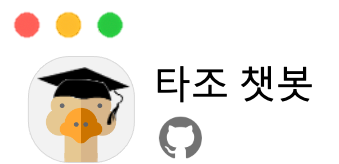
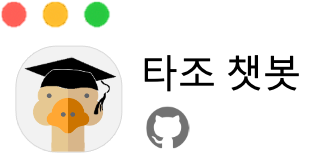
edit layouts and multiline issues

diff --git a/static/css/style.css b/static/css/style.css
@@ -11,8 +11,10 @@ h1 {
     position: absolute;
     top: 0;
     left: 0;
+    padding: 5px 15px 0 5px;
     background-color: #FFFFFFFF;
-    width: 100%;
+    width: calc(100% - 20px);
+    border-bottom: 1px solid #EDEDED;
 }
 
 #head_1 {
@@ -23,7 +25,8 @@ h1 {
 #head_2 {
     width: 100%;
     text-align: right;
-    margin-top: 30%;
+    margin-top: 60px;
+    padding: 0;
 }
 
 a:link {
@@ -60,9 +63,11 @@ h6 {
 
 #chatbox {
     position: absolute;
-    top: 95px;
+    top: 100px;
+    left: 0;
+    padding: 15px;
     bottom: 120px;
-    width: 99.5%;
+    width: calc(100% - 30px);
     overflow: auto;
 }
 
@@ -70,14 +75,15 @@ h6 {
     background-color: #F9F9F9FF;
     position: absolute;
     left: 0;
-    bottom: 75px;
+    bottom: 94px;
     width: 100%;
     text-align: right;
+    border-top: 1px solid #EDEDED;
+    border-bottom: 1px solid #EDEDED;
 }
 
 #resetButton {
-    margin-top: 6px;
-    margin-bottom: 3px;
+    margin: 5px 2px -4px;
 }
 
 #userInput {
@@ -87,46 +93,58 @@ h6 {
     left: 0;
     margin-left: auto;
     margin-right: auto;
-    width: 100%;
+    width: calc(100% - 10px);
+    padding: 5px;
 }
 
 #textInput {
     height: 60px;
-    width: 100%;
+    width: calc(100% - 5px);
     color: #556677FF;
     font-family: Malgun Gothic;
-    font-size: 24px;
+    font-size: 19px;
     vertical-align: top;
     outline: None;
-    margin-top: 5px;
-    margin-bottom: 3px;
-    margin-left: 3px;
-    margin-right: 3px;
+    margin: 0 5px;
+    border: 0;
 }
 
 #buttonInput {
     height: 68px;
     width: 70px;
     vertical-align: text-top;
-    margin-top: 3px;
-    margin-bottom: 3px;
-    margin-left: 3px;
-    margin-right: 3px;
+    margin: 5px;
 }
 
 .userText {
-    color: #556677FF;
     font-family: Malgun Gothic;
-    font-size: 24px;
-    text-align: right;
-    line-height: 150%;
-    margin-right: 1%;
+    font-size: 19px;
+    line-height: 120%;
+    float: right;
+    margin-right: 10px;
+    padding-left: calc(100% - 550px);
+    position: relative;
+    margin-bottom: 10px;
 }
 
 .userText span {
     background-color: #FEF01BFF;
-    padding: 1%;
+    padding: 12px 10px 7px 12px;
     border-radius: 5px;
+    display: block;
+    max-width: 350px;
+    word-wrap:break-word;
+    /* white-space: normal !important; */
+}
+
+.userText span:after {
+    border-top: 12px solid #FEF01BFF;
+    border-right: 12px solid transparent;
+    border-top-right-radius: 5px;
+    content: "";
+    position: absolute;
+    top: 10px;
+    right: -12px;
 }
 
 .botText {
@@ -134,7 +152,7 @@ h6 {
     font-family: Malgun Gothic;
     font-size: 24px;
     text-align: left;
-    line-height: 150%;
+    line-height: 120%;
 }
 
 .botText span {

diff --git a/templates/index.html b/templates/index.html
@@ -2,13 +2,13 @@
 <html lang="ko">
   <head>
     <title>타조 챗봇</title>
-    <link rel="stylesheet" type="text/css" href="/static/css/style.css">
+    <link rel="stylesheet" type="text/css" href="/Users/by/boost_camp/stage3/ODQA-Demo-Site/static/css/style.css">
     <script src="https://ajax.googleapis.com/ajax/libs/jquery/3.2.1/jquery.min.js"></script>
     <style>
       body {
         background-color: #9BBBD4FF;
       }
-  </style> 
+  </style>
   </head>
   <body style="overflow-x: hidden;">
     <div id="head">
@@ -17,7 +17,7 @@
           <td width="85%">
             <div id="head_1">
               <a href="https://github.com/bcaitech1/p3-mrc-tajo" target="_blank">
-                <img src="static/image/group_topleft.png" height="82px" width="170px">
+                <img src="/Users/by/boost_camp/stage3/ODQA-Demo-Site/static/image/group_topleft.png" height="82px" width="170px">
               </a>
             </div>
           </td>
@@ -39,23 +39,23 @@
       document.write("<h6>"+date()+"</h6>")
     </script>
     <div id="chatbox">
-      <p class="botText"><img src="static/image/group_profile.png" height="265px" width="397px"></p>
+      <p class="botText"><img src="/Users/by/boost_camp/stage3/ODQA-Demo-Site/static/image/group_profile.png" height="310px"></p>
     </div>
     <div id="reset">
-      <img id="resetButton" src="static/image/button_refresh.png" height="32px" width="150px" onclick="window.location.reload()">
+      <img id="resetButton" src="/Users/by/boost_camp/stage3/ODQA-Demo-Site/static/image/button_refresh.png" height="32px" width="150px" onclick="window.location.reload()">
     </div>
     <div id="userInput">
       <table border="0" width="100%">
         <tr>
           <td width="95%">
-            <input id="textInput" type="text" name="msg" placeholder="질문을 입력해주세요." align="top">
+            <textarea id="textInput" wrap="soft" placeholder="질문을 입력해주세요." align="top"></textarea>
           </td>
           <td width="5%">
-            <input id="buttonInput" type="image" src="static/image/button_send.png" alt="Submit Form">
+            <input id="buttonInput" type="image" src="/Users/by/boost_camp/stage3/ODQA-Demo-Site/static/image/button_send.png" alt="Submit Form">
           </td>
         </tr>
       </table>
     </div>
-    <script src="/static/js/main.js"></script>
+    <script src="/Users/by/boost_camp/stage3/ODQA-Demo-Site/static/js/main.js"></script>
   </body>
 </html>

diff --git a/static/js/main.js b/static/js/main.js
@@ -1,7 +1,7 @@
 /* get response script */
 function getBotResponse() {
     var rawText = $("#textInput").val();
-    var userHtml = '<p class="userText"><span>' + rawText + '</span></p>';
+    var userHtml = '<div class="userText""><span>' + rawText + '</span></div>';
     $("#textInput").val("");
     $("#chatbox").append(userHtml);
     document.getElementById('userInput').scrollIntoView({block: 'start', behavior: 'smooth'});
